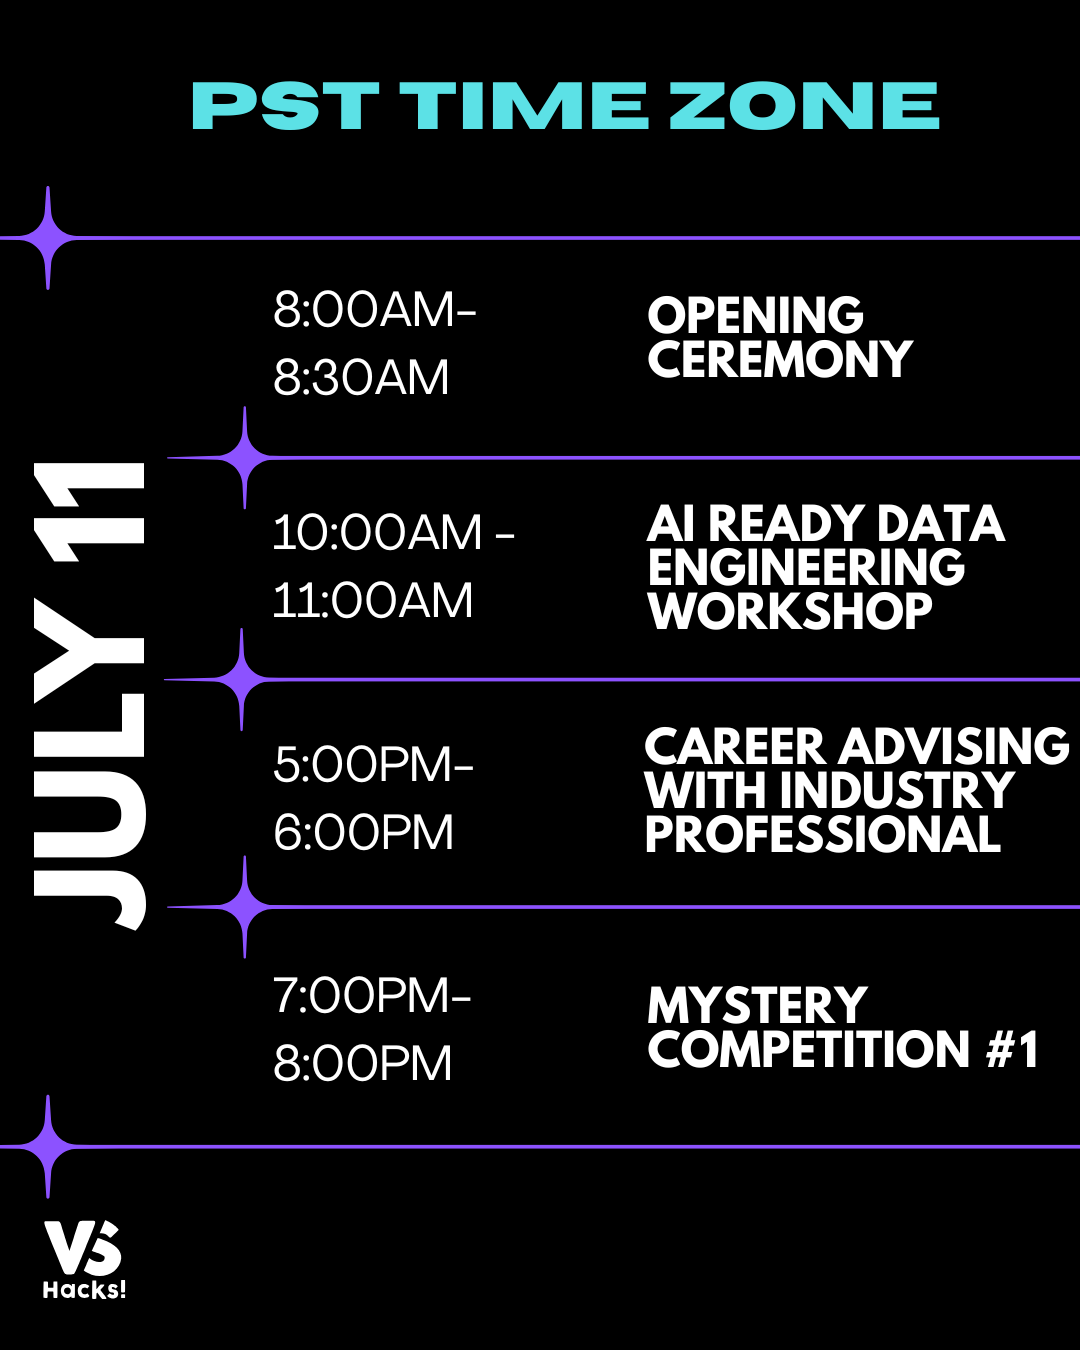
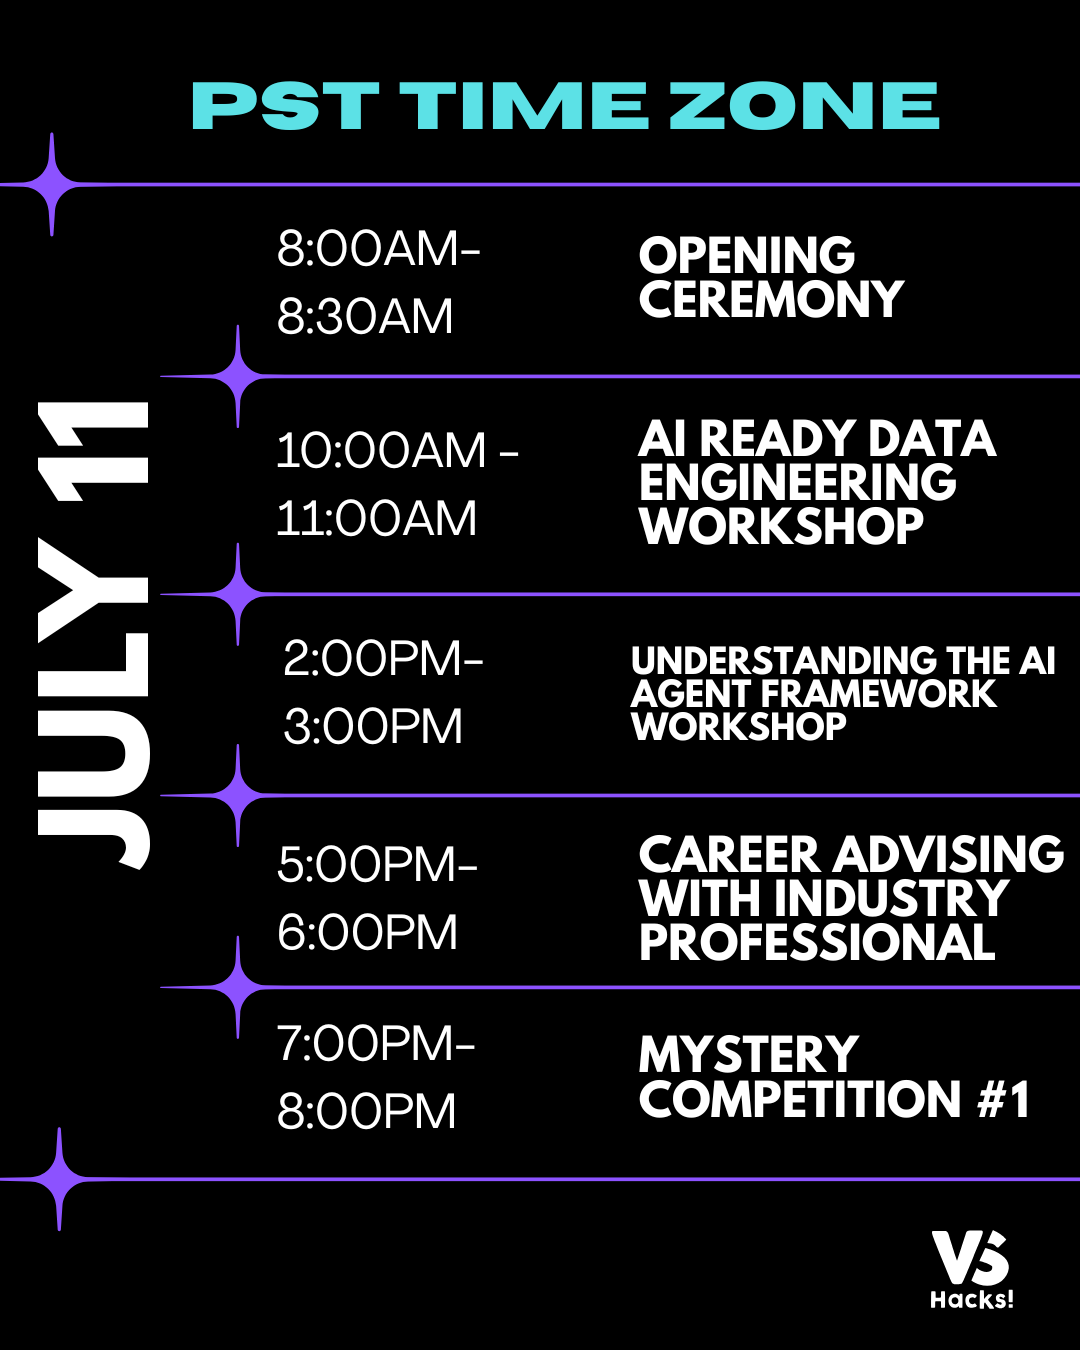
update about us, judges and workshop leads, and description

Changed region(s): [[0.0, 0.0933, 1.0, 0.9956], [0.0306, 0.28, 0.1528, 0.6844]]

diff --git a/about/index.html b/about/index.html
@@ -53,11 +53,9 @@
             style="max-width: 60rem"
           >
             <center>
-              <b>vsHacks</b> is a hackathon organized by a group of several
-              programming clubs across the Greater Vancouver Area.<br /><br />
-              Established in 2022, our organization currently comprises of 11
-              schools across 2 districts.
-              <br /><br />
+              <b>vsHacks</b> vsHacks is a global virtual hackathon organized by students for students.<br /><br />
+               Established in 2022, vsHacks was originally organized by a group of several programming clubs across the Greater Vancouver Area.
+              <br /><br />With over 500 competitors in its history, it stands as one of the biggest virtual hackathons of its kind.<br /><br />
               <a
                 href="https://www.instagram.com/vshacks_official/"
                 target="_blank"
@@ -83,21 +81,21 @@
       <section class="container my-5">
         <h2 class="about-subtitle text-center">Our Team</h2>
 
-        <div class="team-grid">
+        <div class="team-flex">
           <!-- Daniel Lei -->
           <article class="profile-card">
        
             <div class="card-face">
               <div class="profile-name">Daniel Lei</div>
               <div class="photo-wrap">
-                <img class="profile-photo daniel-photo" src="/assets/images/daniel.jpg" alt="Daniel Lei headshot" />
+                <img class="profile-photo daniel-photo" src="/assets/images/execs/daniel.jpg" alt="Daniel Lei headshot" />
               </div>
-              <div class="profile-role">Chair, Lead Organizer</div>
+              <div class="profile-role">Chair</div>
             </div>
            
             <div class="card-bio">
               <h3>Daniel Lei</h3>
-              <p>Hey guys, I am a grade 12 student at University Hill Secondary School and I am a custom keyboard enthusiast! Hit me up if you have the latest mod recommendations for my next endgame build... </p>
+              <p>Hey, I am a first year student at the University of Waterloo studying CS + Finance (CFM), and I like magic tricks! </p>
             </div>
           </article>
 
@@ -106,18 +104,18 @@
             <div class="card-face">
               <div class="profile-name">Minglang Chen</div>
               <div class="photo-wrap">
-                <img class="profile-photo" src="/assets/images/minglang.jpg" alt="Minglang Chen headshot" />
+                <img class="profile-photo" src="/assets/images/execs/minglang.png" alt="Minglang Chen headshot" />
               </div>
-              <div class="profile-role">Organizer</div>
+              <div class="profile-role">Vice Chair</div>
             </div>
             <div class="card-bio">
               <h3>Minglang Chen</h3>
-              <p>Hello everyone! I'm a grade 12 student at University Hill Secondary and I like playing Minecraft.</p>
+              <p>Hey, I am a first year student at the University of Waterloo studying Software Engineering :)</p>
             </div>
           </article>
 
           <!-- Ryan Jiang -->
-          <article class="profile-card">
+          <!-- <article class="profile-card">
             <div class="card-face">
               <div class="profile-name">Ryan Jiang</div>
               <div class="photo-wrap">
@@ -131,8 +129,8 @@
             </div>
           </article>
 
-          <!-- Darko Sabo -->
-          <article class="profile-card">
+           Darko Sabo -->
+          <!-- <article class="profile-card">
             <div class="card-face">
               <div class="profile-name">Darko Sabo</div>
               <div class="photo-wrap">
@@ -144,10 +142,10 @@
               <h3>Darko Sabo</h3>
               <p>Hello everyone! I am a grade 11 student at Killarney Secondary School and I like programming projects.</p>
             </div>
-          </article>
+          </article> -->
 
           <!-- Daniel Zhang e-->
-          <article class="profile-card">
+          <!-- <article class="profile-card">
             <div class="card-face">
               <div class="profile-name">Daniel Zhang</div>
               <div class="photo-wrap">
@@ -159,10 +157,123 @@
               <h3>Daniel Zhang</h3>
               <p>Hello everyone! I am a grade 12 student at Pinetree Secondary School and I like AI.</p>
             </div>
-          </article>
+          </article>  -->
         </div>
       </section>
       <!-- /Our Team -->
+
+      <!-- Judges -->
+      <section class="container my-5">
+        <h2 class="about-subtitle text-center">Judges</h2>
+
+        <div class="team-flex">
+          <!-- Judge 1 -->
+          <article class="profile-card">
+            <div class="card-face">
+              <div class="profile-name" style="font-size: 24px;">Advitya Gemawat</div>
+              <div class="photo-wrap">
+                <img class="profile-photo" src="/assets/images/execs/advitya gemawat.jpg" alt="Judge headshot" />
+              </div>
+              <div class="profile-role" style="font-size: 18px;">Judge, Opening Speaker, Career Advisor</div>
+            </div>
+            <div class="card-bio">
+              <h3>Advitya Gemawat</h3>
+              <p>Machine Learning Engineer at Microsoft</p>
+              <p>25 Under 25: Top Data Science Contributors and Thought-Leaders</p>
+              <p>Bachelor's Degree in Data Science at University of California San Diego</p>
+            </div>
+          </article>
+
+          <!-- Judge 2 -->
+          <article class="profile-card">
+            <div class="card-face">
+              <div class="profile-name">Nicole Seah</div>
+              <div class="photo-wrap">
+                <img class="profile-photo" src="/assets/images/execs/nicole seah.jpg" alt="Judge headshot" />
+              </div>
+              <div class="profile-role">Judge</div>
+            </div>
+            <div class="card-bio">
+              <h3>Nicole Seah</h3>
+              <p>VC Investors at Costanoa Ventures</p>
+              <p>Ex Senior Business Analyst at Mckinsey</p>
+              <p>Bachelor's Degree in Cognitive Science (Behavioural Economics Concentration) at UPenn Wharton</p>
+            </div>
+          </article>
+
+          <!-- Judge 3 -->
+          <article class="profile-card">
+            <div class="card-face">
+              <div class="profile-name">Raju Chowdhury</div>
+              <div class="photo-wrap">
+                <img class="profile-photo" src="/assets/images/execs/Raju.jpg" alt="Judge headshot" />
+              </div>
+              <div class="profile-role">Judge</div>
+            </div>
+            <div class="card-bio">
+              <h3>Raju Chowdhury</h3>
+              <p>Senior Software Engineer at Microsoft</p>
+              <p>Ex Technical Lead at HCL America Inc.</p>
+            </div>
+          </article>
+
+          <!-- Judge 4 -->
+          <article class="profile-card">
+            <div class="card-face">
+              <div class="profile-name">Prakshal Doshi</div>
+              <div class="photo-wrap">
+                <img class="profile-photo" src="/assets/images/execs/doshi.jpg" alt="Judge headshot" />
+              </div>
+              <div class="profile-role">Judge</div>
+            </div>
+            <div class="card-bio">
+              <h3>Prakshal Doshi</h3>
+              <p>Software Engineer at Apple</p>
+              <p>Ex Software Engineer at JPMorgan</p>
+              <p>Master's Degree in Computer Science at San Diego State University</p>
+            </div>
+          </article>
+        </div>
+      </section>
+      <!-- /Judges -->
+
+      <!-- Workshop Leads -->
+      <section class="container my-5">
+        <h2 class="about-subtitle text-center">Workshop Leads</h2>
+
+        <div class="team-flex">
+          <!-- Workshop Lead 1 -->
+          <article class="profile-card">
+            <div class="card-face">
+              <div class="profile-name">Ravi Kiran Pagidi</div>
+              <div class="photo-wrap">
+                <img class="profile-photo" src="/assets/images/execs/Ravi Kiran Pagidi.jpg" alt="Workshop lead headshot" />
+              </div>
+              <div class="profile-role">Workshop Lead</div>
+            </div>
+            <div class="card-bio">
+              <h3>Ravi Kiran Pagidi</h3>
+              <p>Senior Data Engineer at GEICO</p>
+            </div>
+          </article>
+
+          <!-- Workshop Lead 2 -->
+          <article class="profile-card">
+            <div class="card-face">
+              <div class="profile-name">Eshaan Jain</div>
+              <div class="photo-wrap">
+                <img class="profile-photo" src="/assets/images/execs/eshaan.png" alt="Workshop lead headshot" />
+              </div>
+              <div class="profile-role">Workshop Lead</div>
+            </div>
+            <div class="card-bio">
+              <h3>Eshaan Jain</h3>
+              <p>Mphasis (client- T-Mobile), Senior Product Manager</p>
+            </div>
+          </article>
+        </div>
+      </section>
+      <!-- /Workshop Leads -->
     </div>
 
     <div id="footer-placeholder"></div>

diff --git a/css/main.css b/css/main.css
@@ -217,22 +217,20 @@ html { overflow-x: hidden; }
   text-align: center;
 }
 
-/* Grid */
-.team-grid {
-  display: grid;
-  grid-template-columns: 1fr;
+/* Flexbox */
+.team-flex {
+  display: flex;
+  flex-direction: row;
+  flex-wrap: wrap;
   gap: 2rem;
+  width: 75%;
+  margin: 0 auto;
+  justify-content: center;
 }
-@media (min-width: 576px) {
-  .team-grid { grid-template-columns: repeat(2, 1fr); }
+.team-flex > .profile-card {
+  flex: 0 1 320px;
 }
-/* Desktop: keep “3 across”; center the last two cards */
-@media (min-width: 992px) {
-  .team-grid { grid-template-columns: repeat(6, 1fr); }
-  .team-grid > .profile-card { grid-column: span 2; }
-  .team-grid > .profile-card:nth-child(4) { grid-column: 2 / span 2; }
-  .team-grid > .profile-card:nth-child(5) { grid-column: 4 / span 2; }
-}
+
 
 /* Bigger cards (~1.5x) with hover-to-bio behavior */
 .profile-card{